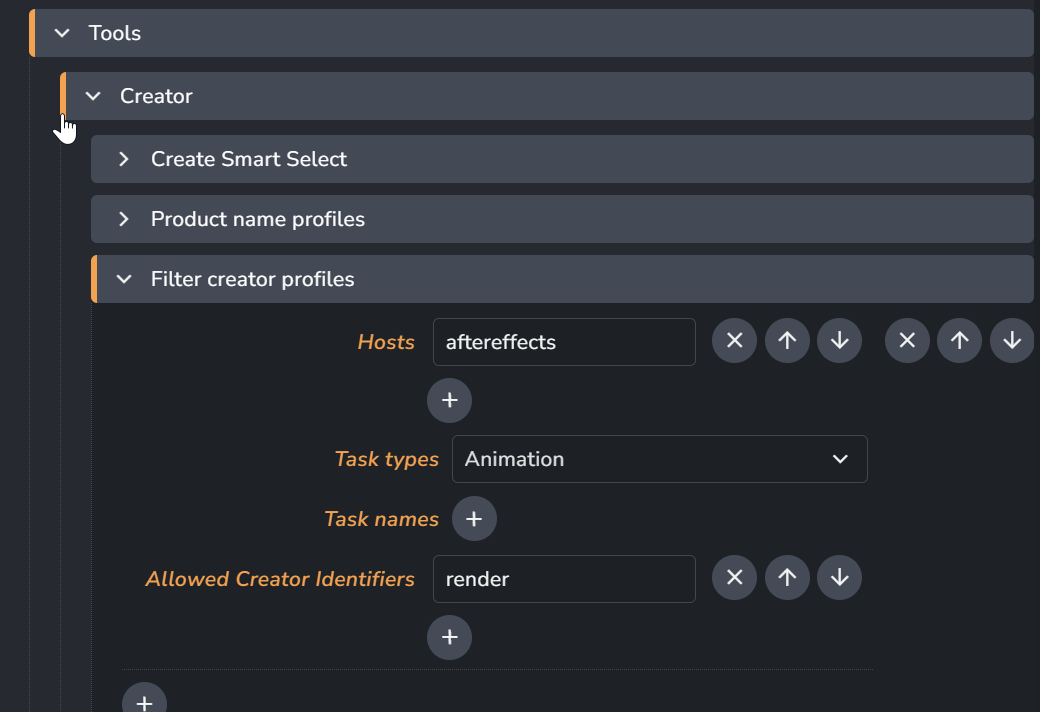
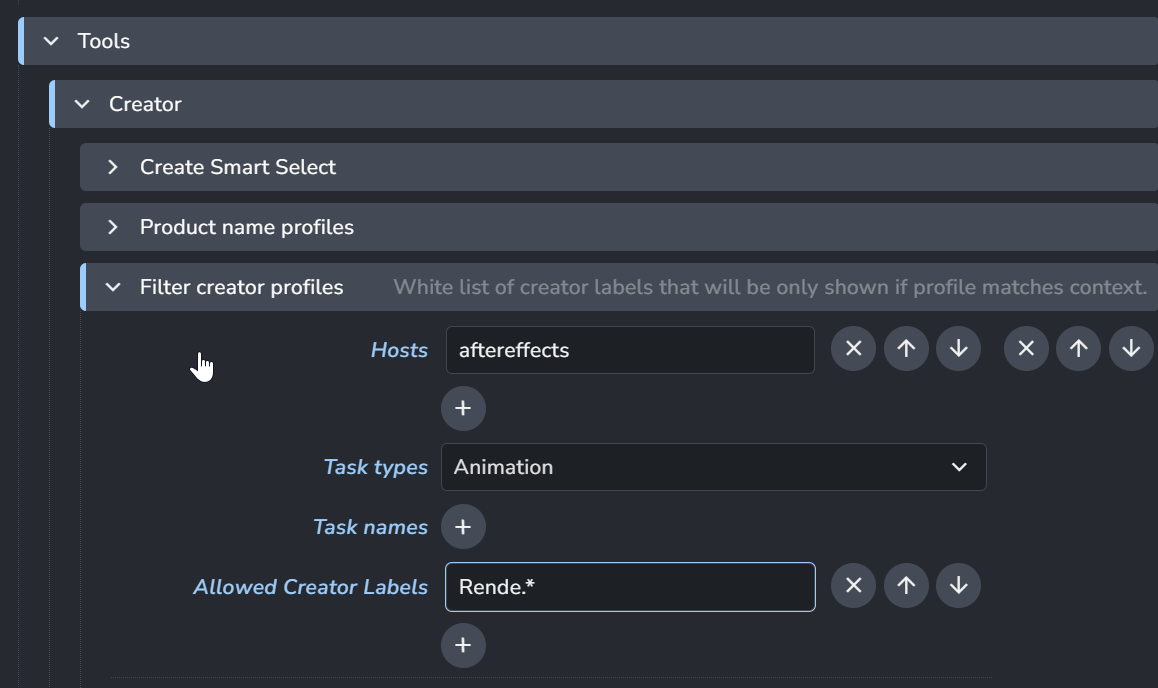
AY-5539 - updated documentation with new variable used

diff --git a/website/docs/addon_core_settings.md b/website/docs/addon_core_settings.md
@@ -105,9 +105,12 @@ This provides a way how to limit list of provided Creators in Publisher based on
 help artists decision which creator they should use.
 
 If you want to limit which creators should be shown, provide some profile, based on host name and task info.
-Put creator identifier to `Allowed Creator Identifiers`, in most cases it should be same value as resulting product type (lower cased).
+Put creator label to `Allowed Creator Labels`, easiest way is to open DCC, select creator label in the list of creators and copy&paste it to Settings.
+Regular expression is supported (eg. `Image.*` would show all `ImageHD`, `ImageLD`, `ImageThumb` creators).
 
-![core_tools_custom_staging_dir](assets/tools/core_tools_filter_creators.png)
+Logging is provided in debug mode (`ayon_console --debug`) to highlight if profile matched and filtering is happening.
+
+![core_tools_filter_creators](assets/tools/core_tools_filter_creators.png)
 
 #### Custom Staging Directory Profiles
 With this feature, users can specify a custom data folder path based on presets, which can be used during the creation and publishing stages.
